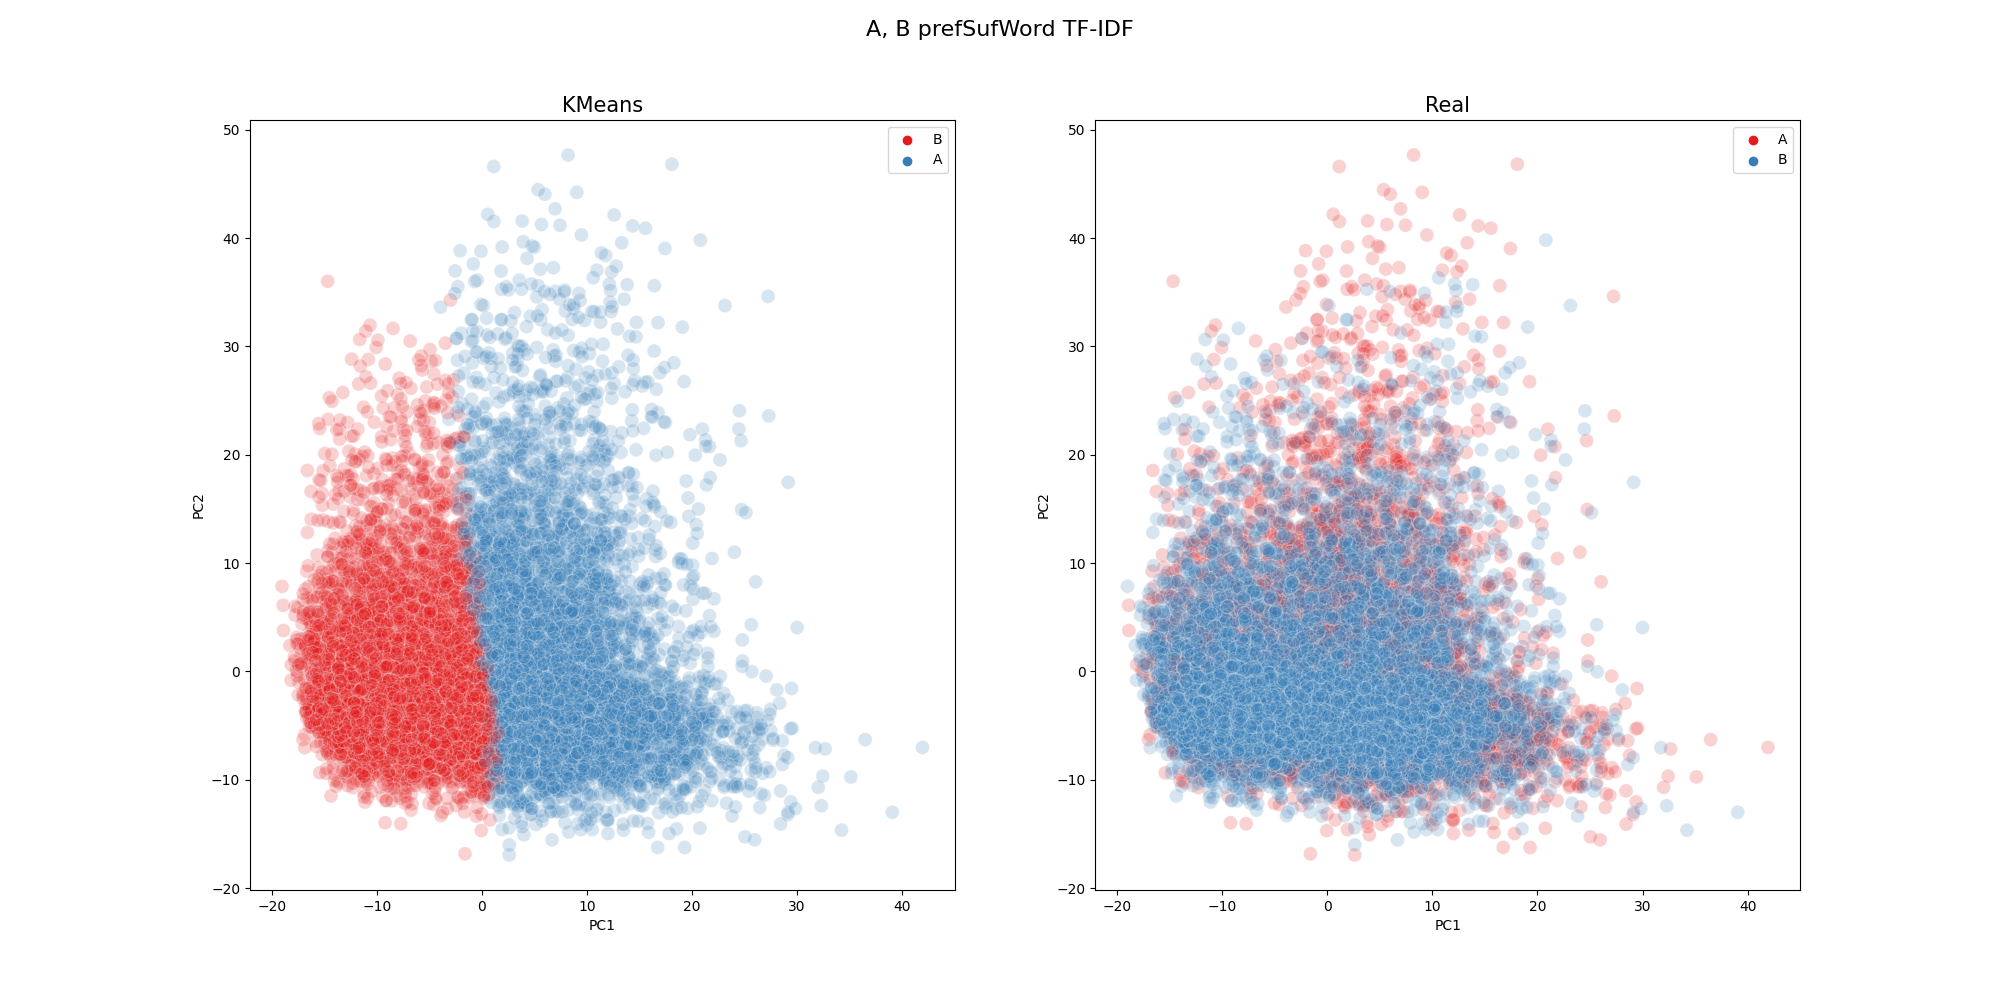
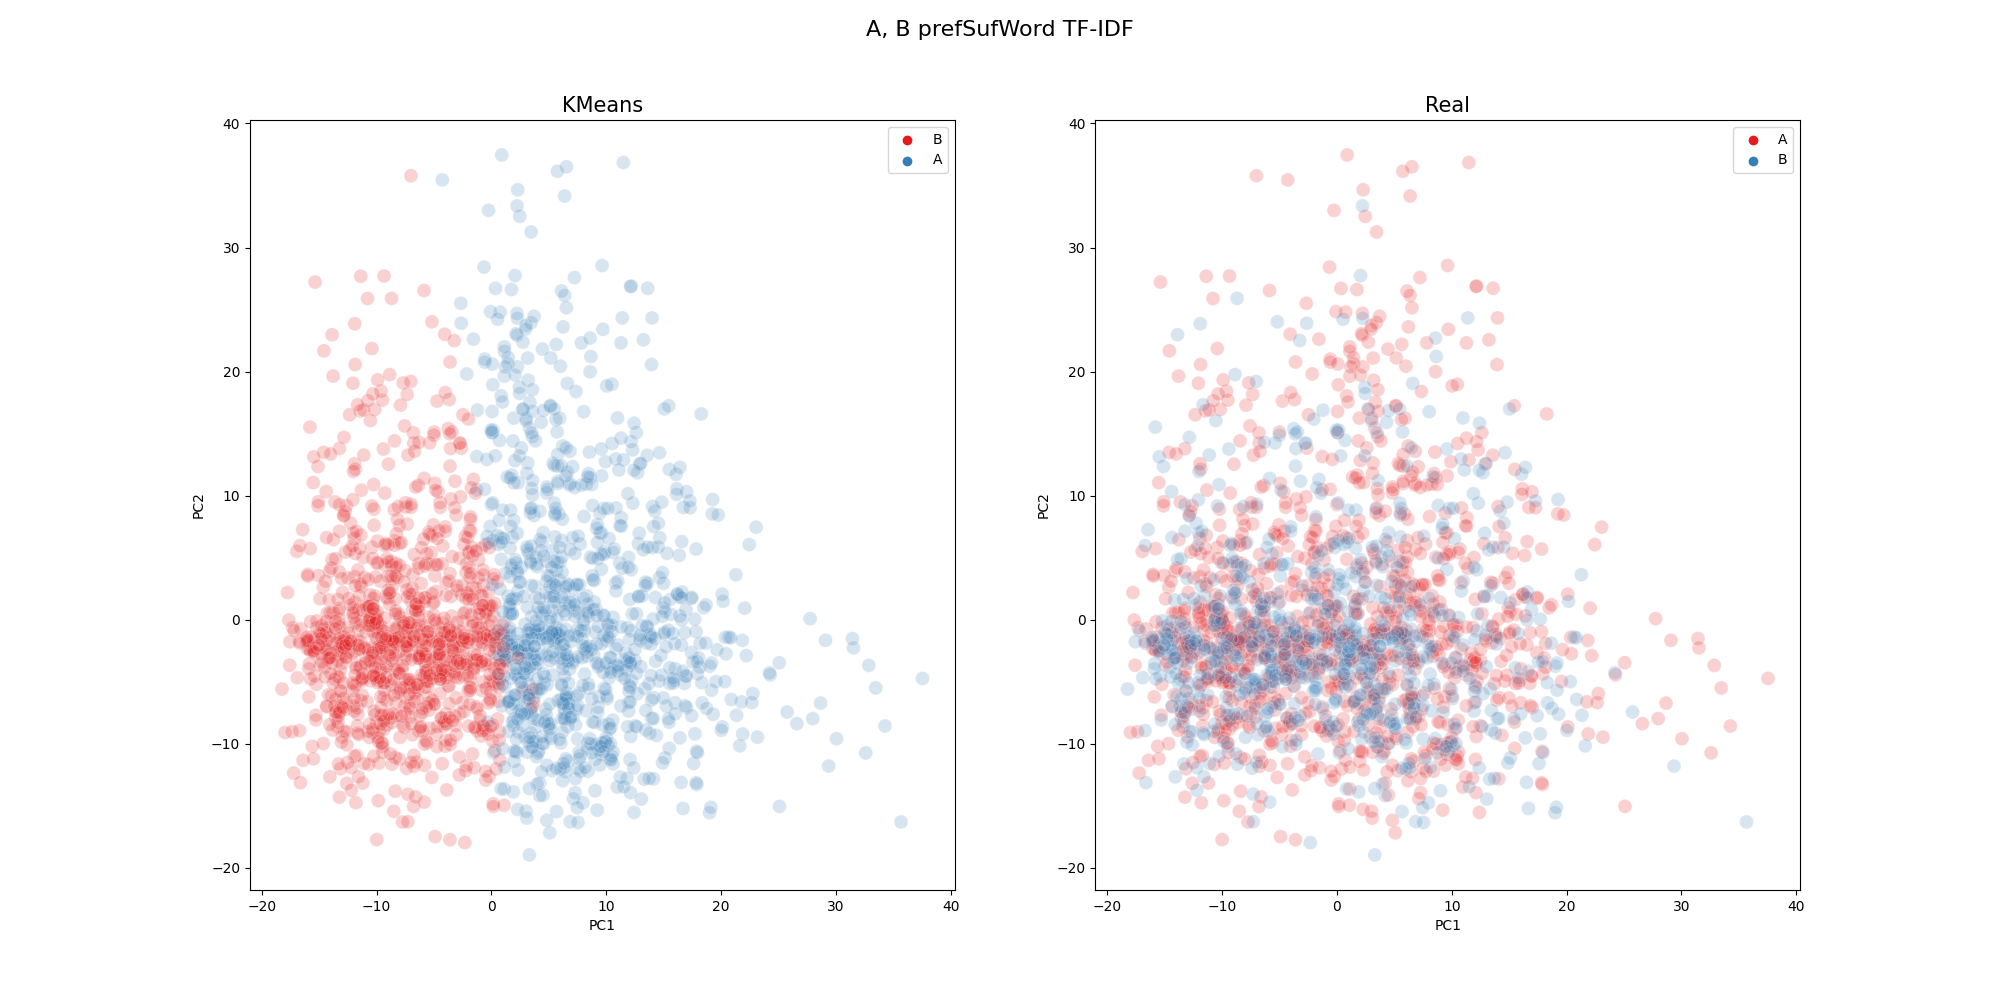
README.md

Changed region(s): [[0.558, 0.155, 0.899, 0.868], [0.124, 0.155, 0.465, 0.868], [0.434, 0.651, 0.465, 0.682]]

diff --git a/main.py b/main.py
@@ -41,7 +41,7 @@ def EX_4_code():
         for folder in folders:
             title = ', '.join(group) + ' ' + folder.split('\\')[1]
             print(title)
-            docs_locations = [folder + file for file in os.listdir(folder) if get_file_name(file) in groups_docs.keys()]
+            docs_locations = [folder + file for file in os.listdir(folder) if get_file_name(file) in groups_docs.keys()][5000:7000]
             docs = read_files(docs_locations)
 
             # TF_IFD classification

diff --git a/utils.py b/utils.py
@@ -251,4 +251,4 @@ def print_results_table(title, k_means_res, ann_res):
     df = pd.DataFrame({'k-means': k_means_res, 'ANN': ann_res})
     df.index = ['Accuracy', 'F1', 'Precision', 'Recall']
     df.columns.name = title
-    dfi.export(df, 'plots\\' + title + '_table.jpeg', fontsize=20, table_conversion=matplotlib)
+    dfi.export(df, 'plots\\' + title + '_table.jpeg', fontsize=20)
